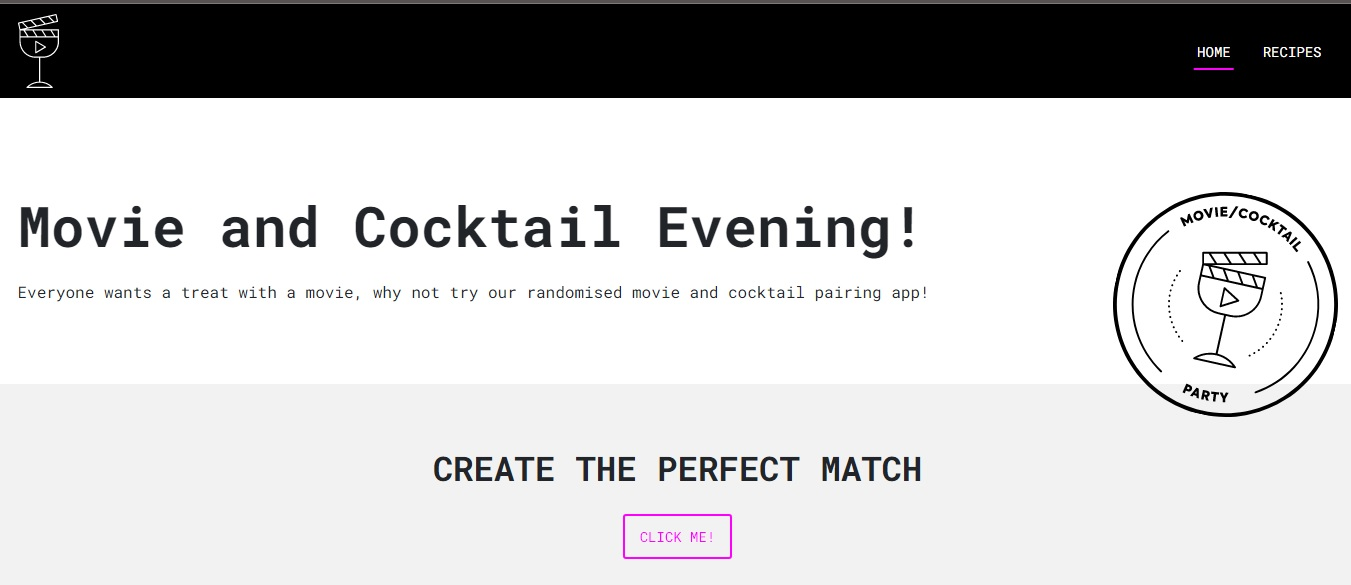
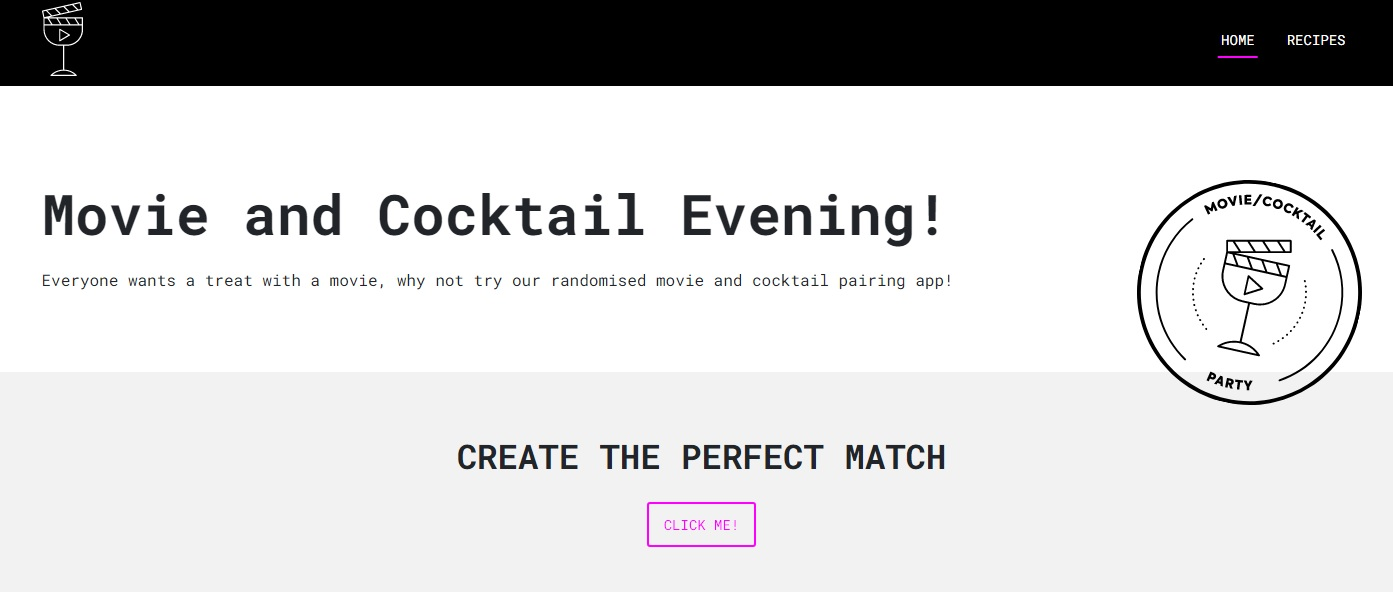
Flexbox styling, general code clear up

diff --git a/index.html b/index.html
@@ -64,7 +64,8 @@
                 The goal was to create a Hobby Page, discussing a particular
                 interest. The idea was to showcase HTML, CSS and simple
                 JavaScript.
-
+              </p>
+              <div class="contentBtns">
                 <button>
                   <a
                     href="https://github.com/Bcott93/Hobby-Page"
@@ -79,7 +80,7 @@
                     >See the deployment</a
                   >
                 </button>
-              </p>
+              </div>
             </div>
           </div>
         </li>
@@ -101,6 +102,9 @@
                 - The icon showing the current weather - The humidity - The wind
                 speed - Once a search has been completed, save it in a history
                 tab.
+              </p>
+
+              <div class="contentBtns">
                 <button>
                   <a
                     href="https://github.com/Bcott93/Weather-Dashboard"
@@ -115,7 +119,7 @@
                     >See the deployment</a
                   >
                 </button>
-              </p>
+              </div>
             </div>
           </div>
         </li>
@@ -143,7 +147,8 @@
                 We used the following technologies while adopting an agile
                 workflow: - Github - Visual Studio Code - JavaScript - HTML -
                 CSS - Bootstrap
-
+              </p>
+              <div class="contentBtns">
                 <button>
                   <a
                     href="https://github.com/ResonantDevotion/MovieSlashCocktailParty"
@@ -158,7 +163,7 @@
                     >See the deployment</a
                   >
                 </button>
-              </p>
+              </div>
             </div>
           </div>
         </li>
@@ -182,7 +187,8 @@
                 the code would still function should more data be added, and
                 that it was commented in a way which enables other developers to
                 take over if required.
-
+              </p>
+              <div class="contentBtns">
                 <button>
                   <a
                     href="https://github.com/Bcott93/Console-Finances"
@@ -197,7 +203,7 @@
                     >See the deployment</a
                   >
                 </button>
-              </p>
+              </div>
             </div>
           </div>
         </li>
@@ -223,7 +229,8 @@
                 would still function should more data be added, and that it was
                 commented in a way which enables other developers to take over
                 if required.
-
+              </p>
+              <div class="contentBtns">
                 <button>
                   <a
                     href="https://github.com/Bcott93/Password-Generator"
@@ -238,38 +245,33 @@
                     >See the deployment</a
                   >
                 </button>
-              </p>
+              </div>
             </div>
           </div>
         </li>
         <li id="card-6" class="card">
-          <h2>Placement Project</h2>
-          <img
-            src="./assets/images/Password-Generator.jpg"
-            alt=""
-            class="cardImg"
-          />
+          <h2>Place Holder</h2>
+          <img src="./assets/images/place-holder.jpg" alt="" class="cardImg" />
           <div class="dropdown">
             <button class="show-more-btn"></button>
             <div class="show-more-content">
-              <p>
-                Project 6
-
+              <p>Place Holder</p>
+              <div class="contentBtns">
                 <button>
                   <a
-                    href="https://github.com/ResonantDevotion/MovieSlashCocktailParty"
+                    href="https://github.com/Bcott93/Password-Generator"
                     target="_blank"
                     >See the Repo</a
                   >
                 </button>
                 <button>
                   <a
-                    href="https://resonantdevotion.github.io/MovieSlashCocktailParty/"
+                    href="https://bcott93.github.io/Password-Generator/"
                     target="_blank"
                     >See the deployment</a
                   >
                 </button>
-              </p>
+              </div>
             </div>
           </div>
         </li>
@@ -277,7 +279,7 @@
     </div>
     <!-- Footer for owner credit  -->
     <footer>
-      <h2 id="footerhome"><a href="#header">Take me home!</a></h2>
+      <h2 id="footerHome"><a href="#header">Take me home!</a></h2>
       <div class="creators">
         Created by
         <a href="https://github.com/Bcott93" target="_blank"

diff --git a/assets/css/style.css b/assets/css/style.css
@@ -103,23 +103,39 @@ figure {
    color: black;
 }
 
+.container ul {
+    list-style-type: none;
+    display: flex;
+    text-align: center;
+}
 .card-gallery {
     display: flex;
     flex-wrap: wrap;
-    gap: 10px;
+    gap: 50px;
     justify-content: center;
 }
 
 .card-gallery li {
-    flex-basis: 350px;
+    flex-basis: 450px;
 }
 
 .cardImg {
-   object-fit: cover;
+   object-fit: fill;
    max-width: 100%;
-   height: auto;
-   vertical-align: middle;    
+   height: 200px;
+   vertical-align: middle; 
+    
    border-radius: 5px;
+}
+
+.show-more-btn {
+    color: black;
+    font-size: 20px;
+    margin-top: 10px;
+}
+
+.contentBtns {
+    display: block;
 }
 
 
@@ -138,8 +154,8 @@ footer {
     font-size: 20px;
 }
 
-#footerhome a {
-    text-decoration-line: underline
+#footerHome a {
+    text-decoration-line: underline;
     color: white;
     font-size: 30px;
 }
@@ -164,9 +180,10 @@ footer {
 /* Links inside the dropdown */
 .dropdown-content li a {
     color: rgb(0, 0, 0);
-    padding: 12px 16px;
+    padding: 10px;
     text-decoration: none;
     display: block;
+    font-size: 20px;
 }
    
 /* Show the dropdown menu on hover */
@@ -176,12 +193,12 @@ footer {
     position: absolute;
     top: 50px;
     left: 0px;
-    background-color: red;
-    width: 500px;
+    background-color: rgb(173, 171, 171);
+    width: 350px;
     height: auto;
 }
 .dropdown-content li:hover a {
-    color: green;
+    color: rgb(249, 249, 249);
 }
 
 
@@ -211,4 +228,11 @@ footer {
     .col {
         width: 100%;
     }
+    .cardImg {
+        object-fit: cover;
+        max-width: 100%;
+        height: auto;
+        vertical-align: middle;    
+        border-radius: 5px;
+     }
 }
